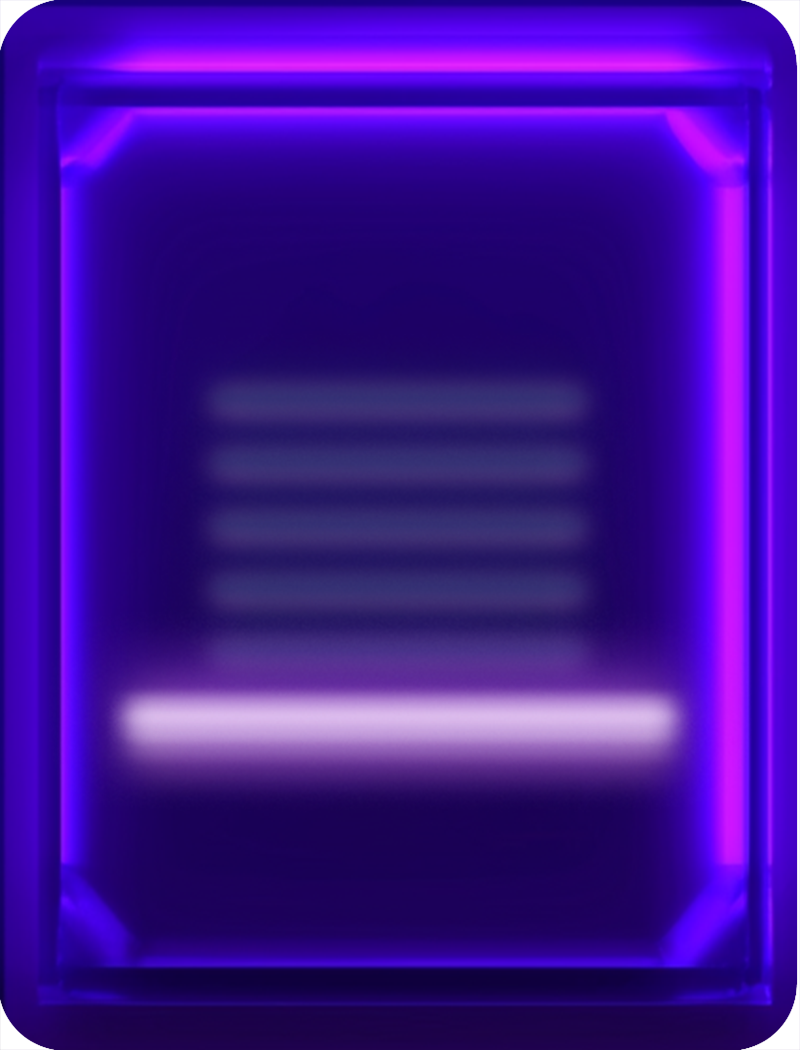
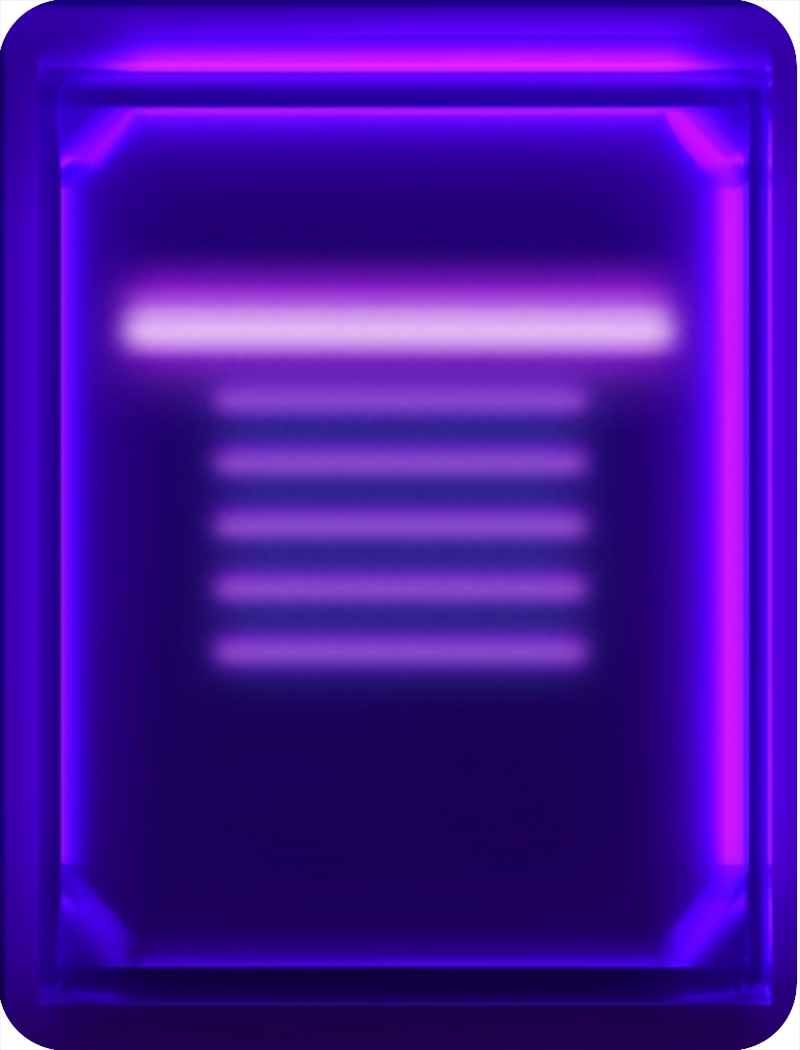
añadido soporte responsive, led en funcion del color, envia la respuesta al servidor y devuelve la respuesta

Changed region(s): [[0.125, 0.2438, 0.875, 0.7619]]

diff --git a/src/components/Switch.jsx b/src/components/Switch.jsx
@@ -1,60 +1,69 @@
-import React, { useEffect, useState } from "react";
 import "../assets/scss/Switch.scss";
 import { iconMap } from "../icons/shapesIcons";
 
-let audioSwitchUp, audioSwitchDown;
+const Switch = ({ id, switchData, theme, setSwitch, size }) => {
+  const ledBoxSize = size.width * 0.02;
+  const ledBoxMargin = size.width * 0.01;
+  const imgSize = size.width * 0.035;
+  const iconSize = size.width * 0.04;
+  const fontSize = size.width * 0.025;
 
-const Switch = ({ onClick, solved, solvedTrigger, switchData, theme }) => {
-  const [activo, setActivo] = useState(false);
-  const [error, setError] = useState(false);
-
-  useEffect(() => {
-    audioSwitchUp = document.getElementById("audio_switch1");
-    audioSwitchDown = document.getElementById("audio_switch2");
-  }, []);
   const togglePalanca = () => {
-    if (!activo) audioSwitchUp.play();
-    else audioSwitchDown.play();
-
-    setActivo(!activo);
+    setSwitch(id, !switchData.pressed);
   };
 
   const getDataLabel = () => {
-    if (switchData.image) return <img src={switchData.image} alt="Switch" />;
+    if (switchData.image)
+      return <img src={switchData.image} draggable={false} height={imgSize} width={imgSize} alt="Switch" />;
 
     if (switchData.ico) {
       const IconComponent = iconMap[switchData.ico.toLowerCase()];
       if (IconComponent) {
-        return <IconComponent color={switchData.colorIco} height={32} width={32} />;
+        return <IconComponent color={switchData.colorIco} height={iconSize} width={iconSize} />;
       }
     }
-    if (switchData.label) return <div>{switchData.label}</div>;
+    if (switchData.label) return <div style={{ fontSize: fontSize + "px" }}>{switchData.label}</div>;
 
     return null;
   };
 
+  function adjustColor(color, percent) {
+    const num = parseInt(color.replace("#", ""), 16);
+    const r = Math.min(255, Math.max(0, (num >> 16) + (255 * percent) / 100));
+    const g = Math.min(255, Math.max(0, ((num >> 8) & 0x00ff) + (255 * percent) / 100));
+    const b = Math.min(255, Math.max(0, (num & 0x0000ff) + (255 * percent) / 100));
+
+    return `rgb(${Math.round(r)}, ${Math.round(g)}, ${Math.round(b)})`;
+  }
+
+  const inner = adjustColor(switchData.color, -40);
+  const glow = adjustColor(switchData.color, 10);
+
+  const ledCss = {
+    backgroundColor: switchData.color,
+    boxShadow: `rgba(0, 0, 0, 0.2) 0 -1px 7px 1px, inset ${inner} 0 -1px 9px, ${glow} 0 2px 12px`,
+    height: ledBoxSize,
+    width: ledBoxSize,
+  };
+
   return (
-    <div
-      className="Switch"
-      // style={{ backgroundColor: switchData.color + "99" }}
-    >
-      <div className="led-box">
-        <div className={solved ? "led-green" : activo ? (error ? "led-red" : "led-load") : "led-off"}></div>
+    <div className="Switch">
+      <div className="led-box" style={{ margin: ledBoxMargin + "px 0" }}>
+        <div
+          style={switchData.pressed ? ledCss : { height: ledBoxSize, width: ledBoxSize }}
+          className={(switchData.pressed ? "" : "led-off") + " led"}
+        ></div>
       </div>
 
       <img
         className="switch-img"
-        src={activo ? theme.switchOnImg : theme.switchOffImg}
+        src={switchData.pressed ? theme.switchOnImg : theme.switchOffImg}
         alt=""
         onClick={togglePalanca}
+        draggable={false}
       />
 
       <div className="data">{getDataLabel()}</div>
-
-      <audio id="audio_connection" src="sounds/connection.wav" autostart="false" preload="auto" />
-      <audio id="audio_fail-connection" src="sounds/fail-connection.wav" autostart="false" preload="auto" />
-      <audio id="audio_switch1" src="sounds/switch1.wav" autostart="false" preload="auto" />
-      <audio id="audio_switch2" src="sounds/switch2.wav" autostart="false" preload="auto" />
     </div>
   );
 };

diff --git a/src/components/MainScreen.jsx b/src/components/MainScreen.jsx
@@ -9,14 +9,52 @@ export default function MainScreen({ show, config, solvePuzzle, solved, solvedTr
     width: window.innerWidth,
     height: window.innerHeight,
   });
+  const [controls, setControls] = useState(true);
+
+  const audioSwitchUp = document.getElementById("audio_switch1");
+  const audioSwitchDown = document.getElementById("audio_switch2");
+  const audioFail = document.getElementById("audio_fail-connection");
+  const audioSuccess = document.getElementById("audio_connection");
 
   useEffect(() => {
     if (config.switches && config.switches.length > 0) {
       setSwitches(config.switches.map((s) => s));
     }
   }, [config.switches]);
+
+  useEffect(() => {
+    if (!audioSwitchDown) return;
+    if (!solved) {
+      audioSwitchDown.play();
+      audioFail.play();
+      setControls(false);
+      setSwitches((prevSwitches) =>
+        prevSwitches.map((s) => ({
+          ...s,
+          pressed: false,
+        })),
+      );
+      setTimeout(() => {
+        setControls(true);
+      }, 1500);
+    } else {
+      audioSuccess.play();
+      setControls(false);
+    }
+  }, [solvedTrigger]);
+
   const click = () => {
-    solvePuzzle(switches);
+    if (controls) solvePuzzle(switches);
+  };
+
+  const setSwitch = (index, value) => {
+    if (controls) {
+      if (value) audioSwitchUp.play();
+      else audioSwitchDown.play();
+      const newSwitches = [...switches];
+      newSwitches[index].pressed = value;
+      setSwitches(newSwitches);
+    }
   };
 
   useEffect(() => {
@@ -47,23 +85,23 @@ export default function MainScreen({ show, config, solvePuzzle, solved, solvedTr
       className={"screen_wrapper" + (show ? "" : " screen_hidden")}
       style={{ backgroundImage: `url(${config.theme.backgroundImg})` }}
     >
-      <div className="frame" style={{ width: size.width * 0.85, height: size.height * 0.8 }}>
-        <div className="switches">
+      <div
+        className={(solved ? "solved" : "") + " frame"}
+        style={{ width: size.width * 0.85, height: size.height * 0.8 }}
+      >
+        <div className="switches" style={{ gap: size.width * 0.01 }}>
           {switches.map((s, index) => (
-            <Switch
-              key={index}
-              solved={solved}
-              onClick={click}
-              solvedTrigger={solvedTrigger}
-              switchData={s}
-              theme={config.theme}
-            />
+            <Switch key={index} id={index} switchData={s} theme={config.theme} setSwitch={setSwitch} size={size} />
           ))}
         </div>
         <div className="button">
-          <RoundButton theme={config.theme} />
+          <RoundButton theme={config.theme} onClick={click} />
         </div>
       </div>
+      <audio id="audio_switch1" src="sounds/switch1.wav" autostart="false" preload="auto" />
+      <audio id="audio_switch2" src="sounds/switch2.wav" autostart="false" preload="auto" />
+      <audio id="audio_connection" src="sounds/connection.wav" autostart="false" preload="auto" />
+      <audio id="audio_fail-connection" src="sounds/fail-connection.wav" autostart="false" preload="auto" />
     </div>
   );
 }

diff --git a/src/assets/scss/Switch.scss b/src/assets/scss/Switch.scss
@@ -13,6 +13,18 @@
     cursor: pointer;
   }
 
+  .led-box {
+    height: 30px;
+    width: 25%;
+    margin: 10px 0;
+    float: left;
+
+    .led {
+      margin: 0 auto;
+      border-radius: 50%;
+    }
+  }
+
   .data {
     display: flex;
     align-items: center;
@@ -21,26 +33,20 @@
   }
 }
 
-.led-box {
-  height: 30px;
-  width: 25%;
-  margin: 10px 0;
-  float: left;
-  p {
-    font-size: 12px;
-    text-align: center;
-    margin: 1em;
-  }
-}
-
-.led-red {
-  margin: 0 auto;
-  width: 24px;
-  height: 24px;
+.fail .led {
   background-color: #f00;
-  border-radius: 50%;
   box-shadow: rgba(0, 0, 0, 0.2) 0 -1px 7px 1px, inset #441313 0 -1px 9px, rgba(255, 0, 0, 0.5) 0 2px 12px;
   animation: blinkRed 0.5s infinite;
+}
+
+.solved .led {
+  background-color: #abff00 !important;
+  box-shadow: rgba(0, 0, 0, 0.2) 0 -1px 7px 1px, inset #304701 0 -1px 9px, #89ff00 0 2px 12px !important;
+}
+
+.led-off {
+  box-shadow: rgba(0, 0, 0, 0.2) 0 -1px 7px 1px, inset #535353 0 -1px 9px;
+  background-color: gainsboro;
 }
 
 @keyframes blinkRed {
@@ -54,30 +60,4 @@
   to {
     background-color: #f00;
   }
-}
-
-.led-green {
-  margin: 0 auto;
-  width: 24px;
-  height: 24px;
-  background-color: #abff00;
-  border-radius: 50%;
-  box-shadow: rgba(0, 0, 0, 0.2) 0 -1px 7px 1px, inset #304701 0 -1px 9px, #89ff00 0 2px 12px;
-}
-
-.led-off {
-  margin: 0 auto;
-  width: 24px;
-  height: 24px;
-  border-radius: 50%;
-  box-shadow: rgba(0, 0, 0, 0.2) 0 -1px 7px 1px, inset #535353 0 -1px 9px;
-  background-color: gainsboro;
-}
-.led-load {
-  margin: 0 auto;
-  width: 24px;
-  height: 24px;
-  background-color: #ff0;
-  border-radius: 50%;
-  box-shadow: rgba(0, 0, 0, 0.2) 0 -1px 7px 1px, inset #808002 0 -1px 9px, #ff0 0 2px 12px;
 }

diff --git a/src/components/App.jsx b/src/components/App.jsx
@@ -91,16 +91,23 @@ export default function App() {
   }, []);
 
   const solvePuzzle = (solution) => {
-    const solutionStr = solution.map((s) => s + 1).join(",");
+    const solutionStr = solution
+      .map((s) => {
+        if (s.pressed) return "on";
+        else return "off";
+      })
+      .join(",");
     console.log(solutionStr);
-    escapp.submitPuzzle(GLOBAL_CONFIG.escapp.puzzleId, JSON.stringify(solutionStr), {}, (success) => {
-      if (!success) {
-        // alert("ta mal");
-      } else {
-        // alert("ta bien");
-      }
+    escapp.submitPuzzle(GLOBAL_CONFIG.escapp.puzzleId, solutionStr, {}, (success) => {
       setSolved(success);
       setSolvedTrigger((prev) => prev + 1);
+
+      if (!success) {
+        setFail(true);
+        setTimeout(() => {
+          setFail(false);
+        }, 1500);
+      }
     });
   };
 
@@ -144,6 +151,11 @@ export default function App() {
     if (config.switchType !== SWITCHTYPE.CUSTOM) {
       configuration.switches = Array.from({ length: config.nSwitches }, configuration.switches);
     }
+
+    configuration.switches = configuration.switches.map((s) => {
+      s.pressed = false;
+      return s;
+    });
 
     console.log(configuration);
     setConfig(configuration);

diff --git a/src/components/RoundButton.jsx b/src/components/RoundButton.jsx
@@ -1,7 +1,3 @@
-import { useState } from "react";
-
-export default function RoundButton({ theme }) {
-  const [activo, setActivo] = useState(false);
-
-  return <img src={theme.buttonImg} style={{ height: "100%" }} />;
+export default function RoundButton({ theme, onClick }) {
+  return <img src={theme.buttonImg} onClick={onClick} draggable={false} style={{ height: "100%" }} />;
 }

diff --git a/src/config/config.js b/src/config/config.js
@@ -21,7 +21,7 @@ export let GLOBAL_CONFIG = {
       locales: ESCAPP_LOCALES,
     },
     appPuzzleIds: [],
-    puzzleId: 3,
+    puzzleId: 5,
     notifications: false,
     rtc: true,
     forceValidation: process.env.NODE_ENV === "production",
